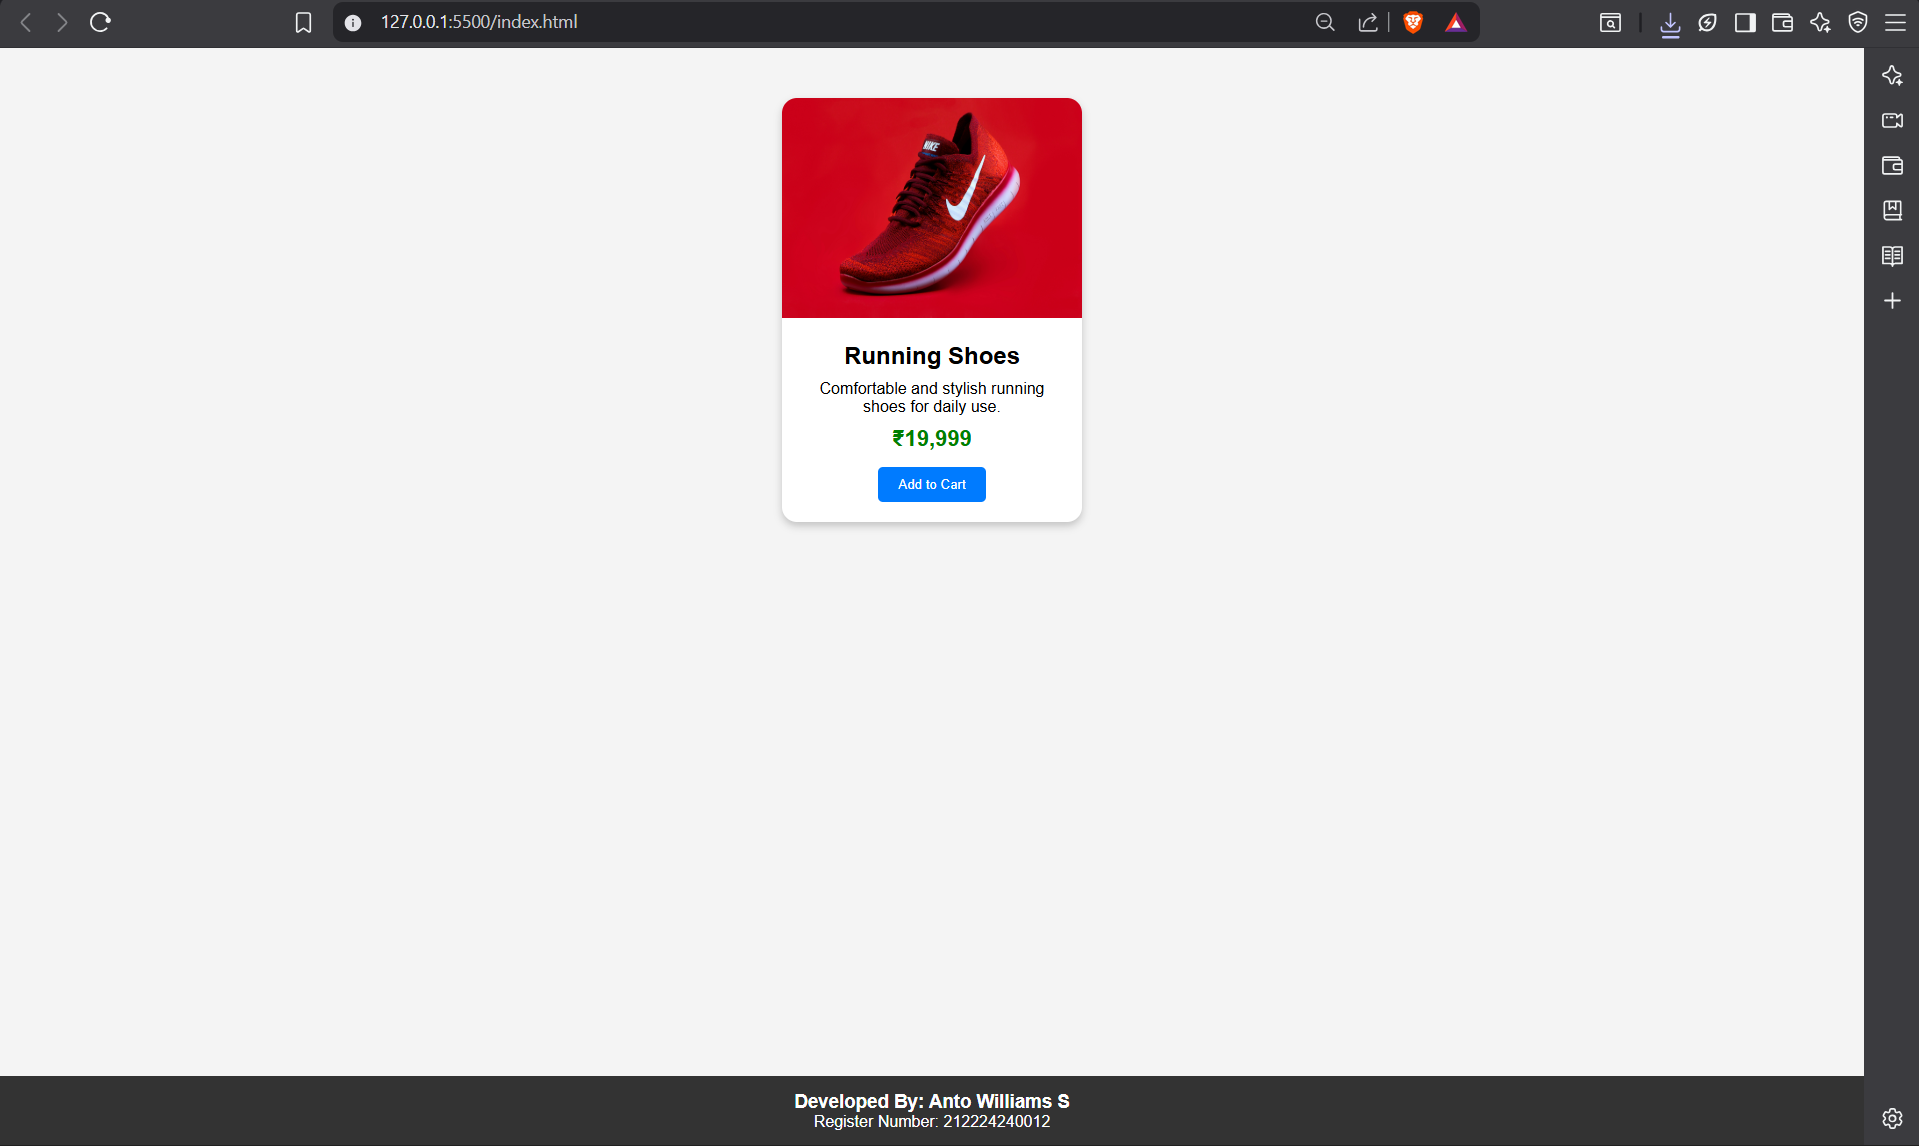
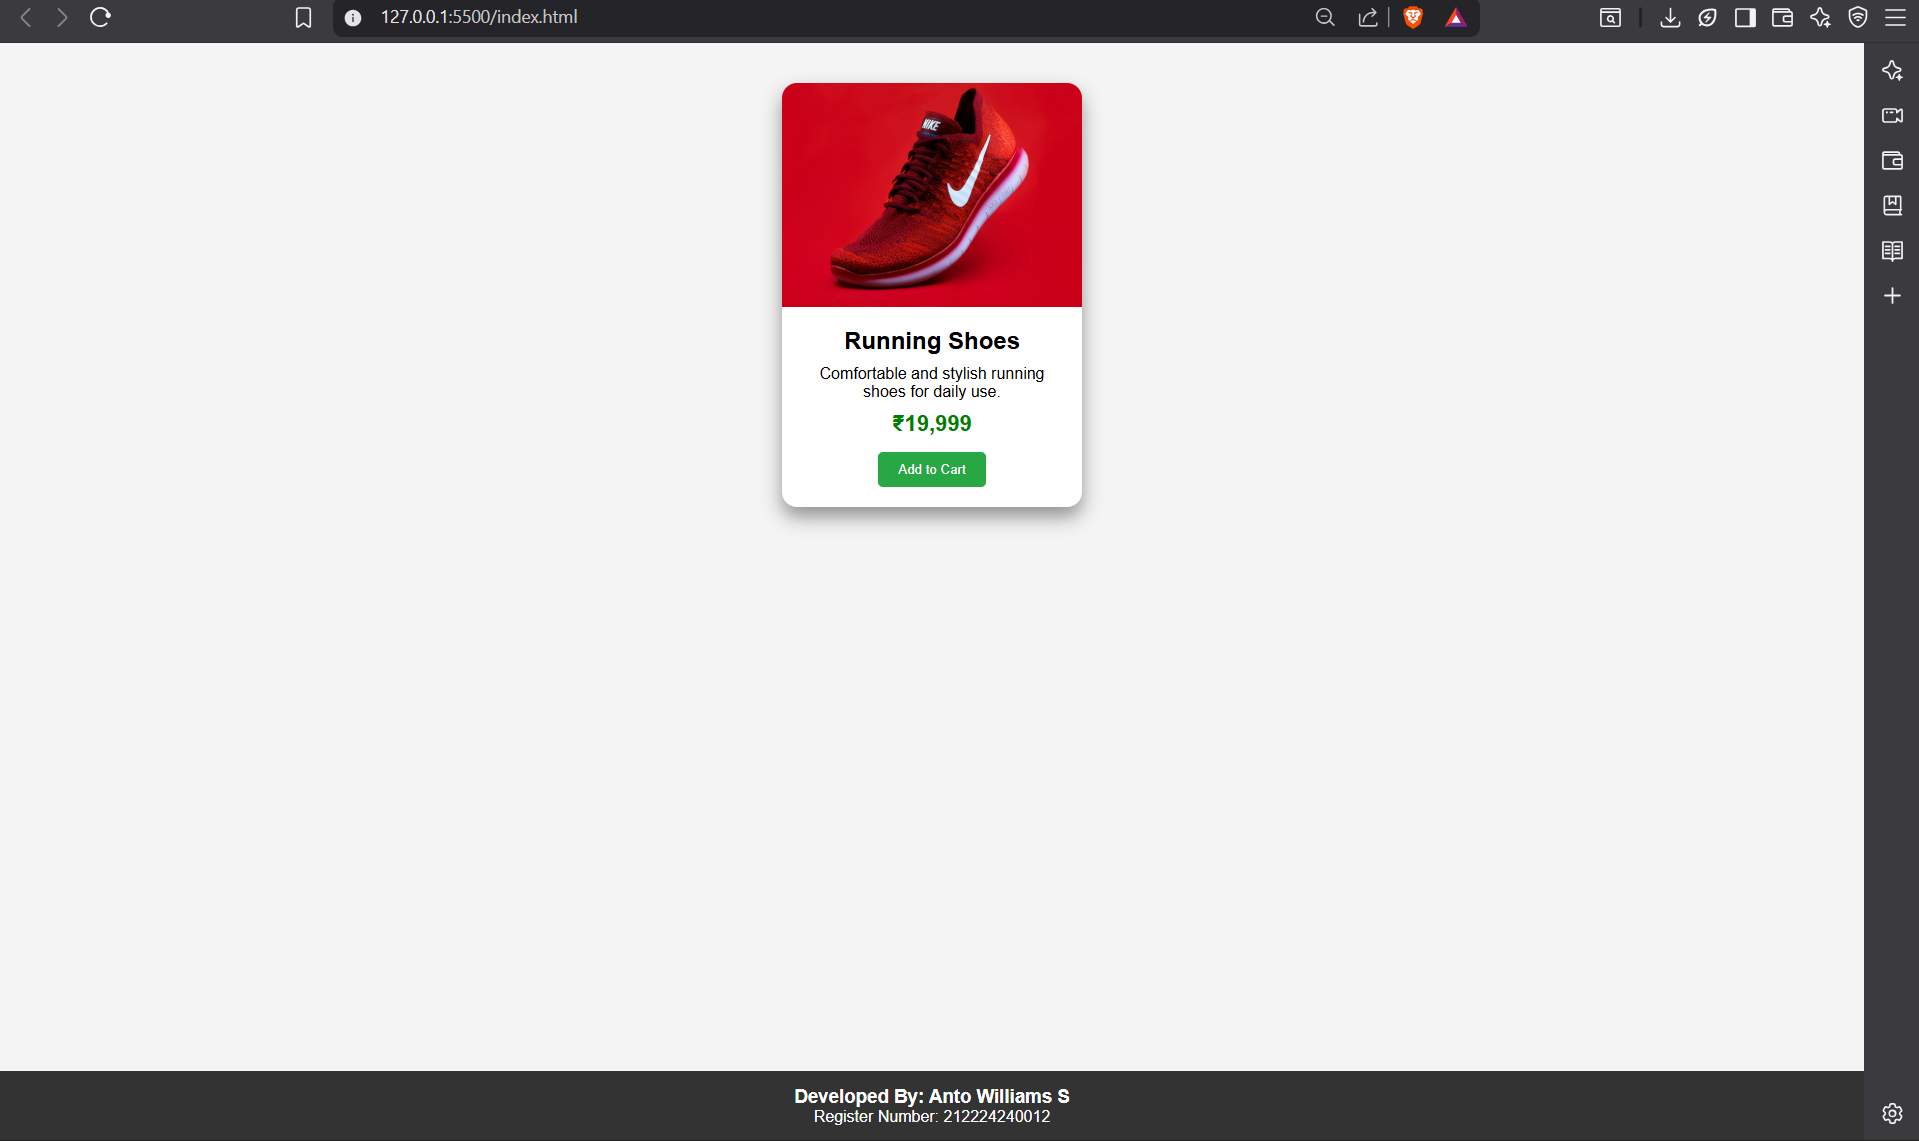
Success

Changed region(s): [[0.0, 0.0, 1.0, 0.4601], [0.9838, 0.0613, 1.0, 0.2761], [0.4304, 0.9509, 0.4612, 0.9816]]

diff --git a/README.md b/README.md
@@ -160,8 +160,8 @@ Change the button background color during hover, Save the file and execute it in
 </body>
 </html>
 # OUTPUT:
-
-![alt text](image.png)
+![Product Card Output 1](image-1.png)
+![Product Card Output 2](image-2.png)
 
 
 # RESULT:
